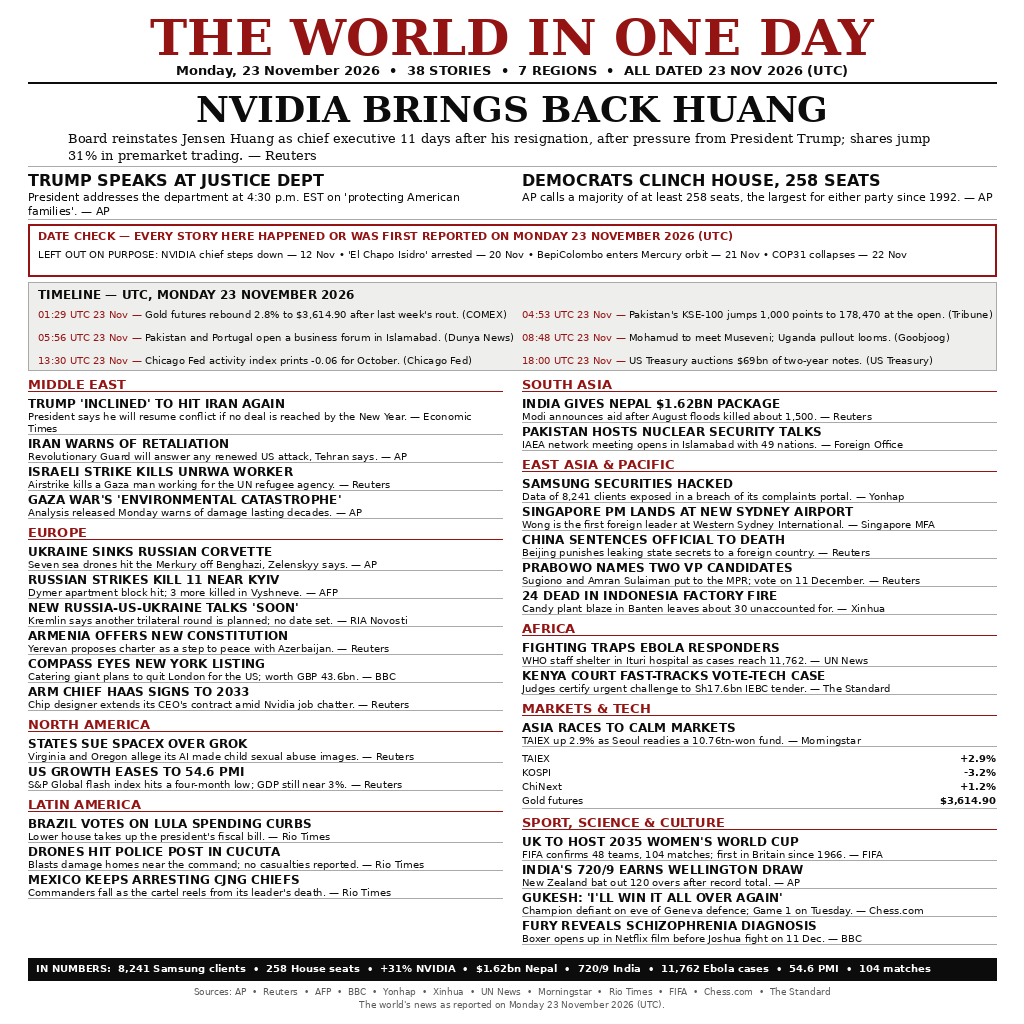
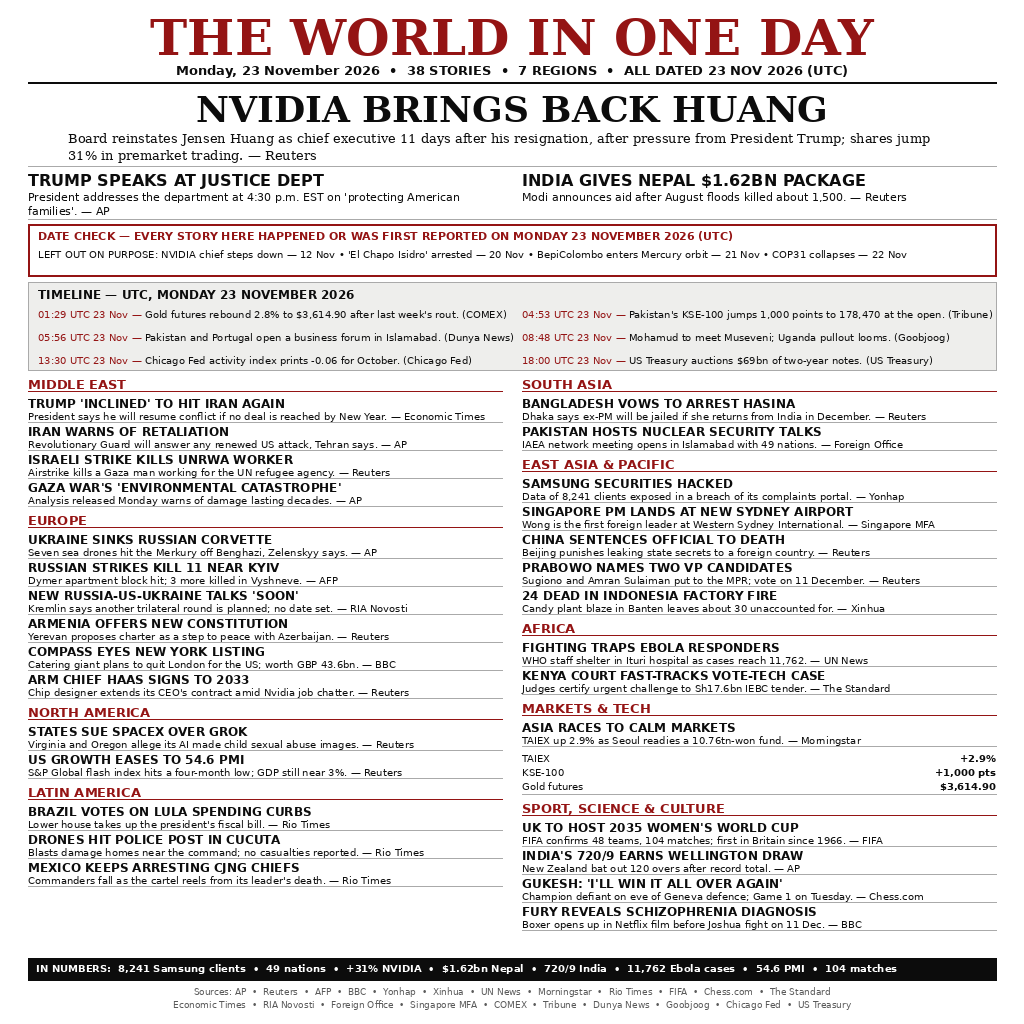
News image 23 Nov 2026 R2 fix: replace stale House sub-lead with Nepal aid; fix markets table, numbers strip, sources footer
- Sub-lead 2 was dated 22 Nov (AP called Hubbard win Sun 22 Nov ~13:00
  EST); replaced with INDIA GIVES NEPAL $1.62BN PACKAGE (Reuters, 23 Nov;
  corroborated by AFP 23 Nov), promoted from body.
- New body story BANGLADESH VOWS TO ARREST HASINA (Reuters, 23 Nov 2026)
  fills the South Asia slot; total stays 38 unique stories.
- Markets table: dropped untraceable KOSPI -3.2% / ChiNext +1.2%; now
  TAIEX +2.9%, KSE-100 +1,000 pts, Gold futures $3,614.90 — all from
  counted stories (body/timeline).
- IN NUMBERS strip: '258 House seats' replaced with '49 nations' (nuclear
  talks story); all strip numbers now trace to counted stories.
- Sources footer now lists all 22 sources used (added Economic Times,
  RIA Novosti, Foreign Office, Singapore MFA, COMEX, Tribune, Dunya News,
  Goobjoog, Chicago Fed, US Treasury) on two lines; dropped the redundant
  footer date line (date already in dateline + DATE CHECK).
- Cosmetic: Iran sub reworded so 'Economic Times' no longer orphans
  'Times' on line 2 (verified 1 line).
- Render 2x byte-identical, entrypoint exit 0 + byte-identical copy.

diff --git a/README.md b/README.md
@@ -4,7 +4,7 @@
 [![Rank](https://make.fun/badge/news-image-20261123/turibaru/news-image-20261123/rank.svg)](https://make.fun/c/news-image-20261123?utm_source=github&utm_medium=readme&utm_campaign=news-image-20261123)
 [![Reward](https://make.fun/badge/news-image-20261123/turibaru/news-image-20261123/reward.svg)](https://make.fun/c/news-image-20261123?utm_source=github&utm_medium=readme&utm_campaign=news-image-20261123)
 
-A dense front-page image summing up world news on Monday, 23 November 2026: 38 stories across 7 regions, led by NVIDIA reinstating Jensen Huang as CEO, Trump's Justice Department address, and Democrats clinching the House — with a red DATE CHECK box (every story happened or was first reported on 23 Nov 2026 UTC; stale stories named and left out), a strictly chronological UTC timeline, and sections for the Middle East, Europe, North America, Latin America, South Asia, East Asia & Pacific, Africa, markets and tech, and sport, science and culture. Rendered deterministically with `python3 render.py`.
+A dense front-page image summing up world news on Monday, 23 November 2026: 38 stories across 7 regions, led by NVIDIA reinstating Jensen Huang as CEO, Trump's Justice Department address, and India's $1.62bn aid package for Nepal — with a red DATE CHECK box (every story happened or was first reported on 23 Nov 2026 UTC; stale stories named and left out), a strictly chronological UTC timeline, and sections for the Middle East, Europe, North America, Latin America, South Asia, East Asia & Pacific, Africa, markets and tech, and sport, science and culture. Rendered deterministically with `python3 render.py`.
 
 ## Date discipline
 
